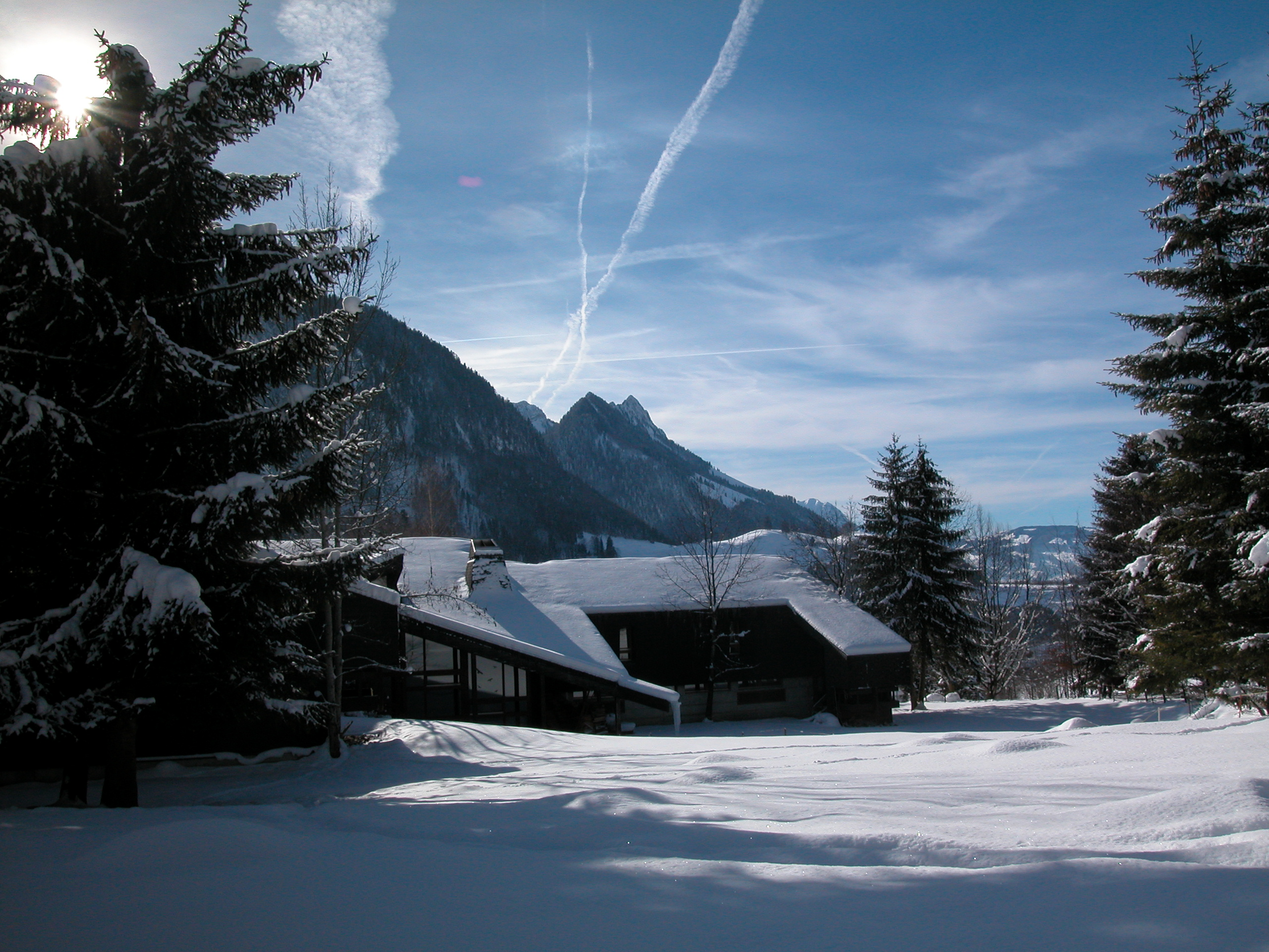
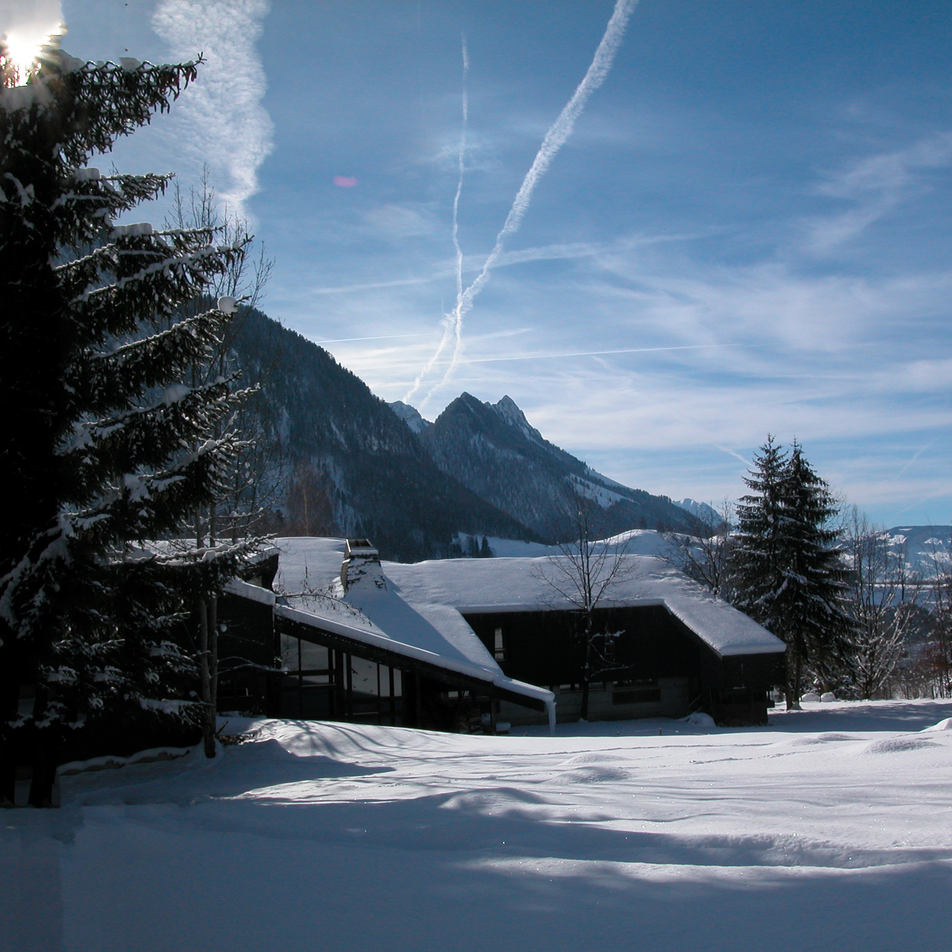
resize

diff --git a/venue.md b/venue.md
@@ -10,9 +10,9 @@ More information about the venue is available [here](http://www.centre-vacances-
 
 This is how the venue looks like in winter:
 
-<img src="/assets/image/chalet1.jpg" width = "400" height = "400" /> |  <img src="/assets/image/chalet2.jpg" width = "400" height = "400" />
+<img src="/assets/image/chalet1.jpg" height = "400" /> |  <img src="/assets/image/chalet2.jpg" height = "400" />
 :-------------------------:|:-------------------------:
-<img src="/assets/image/chalet3.jpg" width = "400" height = "400" /> |  <img src="/assets/image/chalet4.jpg" width = "400" height = "400" />
+<img src="/assets/image/chalet3.jpg" height = "400" /> |  <img src="/assets/image/chalet4.jpg" height = "400" />
 
 <!-- Add a description of the venue -->
 <!--  I used this website https://www.embedgooglemap.net/) -->
